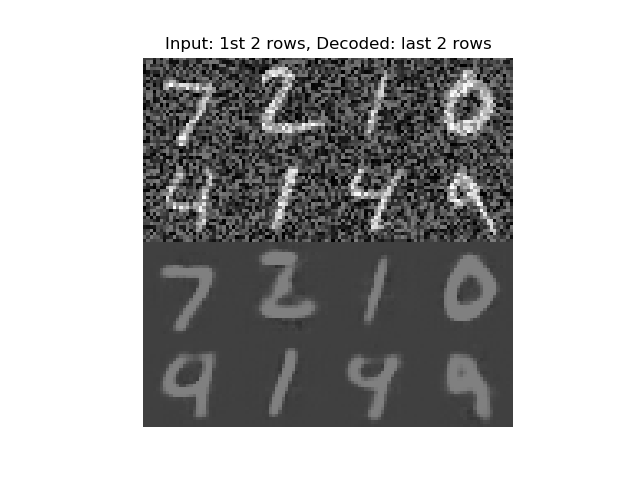
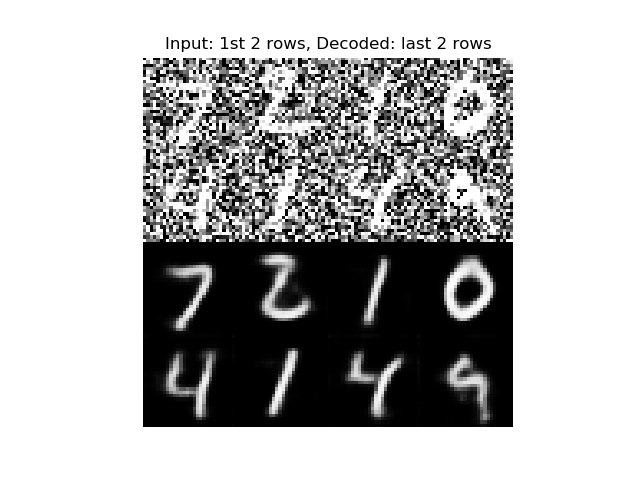
Add files via upload

diff --git a/mnist.py b/mnist.py
@@ -1,0 +1,94 @@
+from keras.layers import Dense, Input, Conv2D, Flatten, Reshape, Conv2DTranspose
+from keras.models import Model
+from keras.datasets import mnist
+from keras.utils import plot_model
+from keras import backend as K
+from plot_model import plotModel
+import numpy as np
+import matplotlib.pyplot as plt
+import os
+os.environ["PATH"] += os.pathsep + 'C:/Program Files (x86)/Graphviz2.38/bin/'
+
+
+(x_train, _), (x_test, y_test) = mnist.load_data()
+
+image_size = x_train.shape[1]
+x_train = np.reshape(x_train, [-1, image_size, image_size, 1])
+x_test = np.reshape(x_test, [-1, image_size, image_size, 1])
+x_train = x_train.astype('float32') / 255
+x_test = x_test.astype('float32') / 255
+
+# add noise
+x_train_normal = x_train
+x_test_normal = x_test
+noise = np.random.normal(loc=0.5, scale=0.5, size=x_train.shape)
+x_train = x_train + noise
+noise = np.random.normal(loc=0.5, scale=0.5, size=x_test.shape)
+x_test = x_test + noise
+x_train = np.clip(x_train, 0., 1.)
+x_test = np.clip(x_test, 0., 1.)
+
+
+input_shape = (image_size, image_size, 1)
+batch_size = 32
+kernel_size = 3
+latent_dim = 16
+layer_filters = [32, 64]
+
+# encoder
+inputs = Input(shape=input_shape, name="encoder_input")
+x = inputs
+for filters in layer_filters:
+    x = Conv2D(filters=filters, kernel_size=kernel_size, activation='relu', strides=2, padding='same')(x)
+
+# guess the shape of the output
+shape = K.int_shape(x)
+
+x = Flatten()(x)
+latent = Dense(latent_dim, name="latent_vector")(x)
+
+encoder = Model(inputs, latent, name="encoder")
+encoder.summary()
+# plot_model(encoder, to_file="encoder.png", show_shapes=True)
+
+
+# decoder
+latent_inputs = Input(shape=(latent_dim, ), name="decoder_input")
+x = Dense(shape[1] * shape[2] * shape[3])(latent_inputs)
+x = Reshape((shape[1], shape[2], shape[3]))(x)
+
+for filters in layer_filters[::-1]:
+    x = Conv2DTranspose(filters=filters, kernel_size=kernel_size, activation='relu', strides=2, padding='same')(x)
+
+outputs = Conv2DTranspose(filters=1, kernel_size=kernel_size,
+                          activation='sigmoid', padding='same',
+                          name="decoder_output")(x)
+
+decoder = Model(latent_inputs, outputs, name="decoder")
+decoder.summary()
+# plot_model(decoder, to_file='decoder.png', show_shapes=True)
+
+
+# autoencoder = encoder + decoder
+autoencoder = Model(inputs, decoder(encoder(inputs)), name="autoencoder")
+autoencoder.summary()
+plot_model(autoencoder, to_file="autoencoder.png", show_shapes=True)
+
+autoencoder.compile(loss='mse', optimizer='adam')
+autoencoder.fit(x_train, x_train_normal, validation_data=(x_test, x_test_normal),
+                epochs=1, batch_size=batch_size)
+
+x_decoded = autoencoder.predict(x_test)
+
+imgs = np.concatenate([x_test[:8], x_decoded[:8]])
+imgs = imgs.reshape((4, 4, image_size, image_size))
+imgs = np.vstack([np.hstack(i) for i in imgs])
+
+plt.figure()
+plt.axis('off')
+plt.title('Input: 1st 2 rows, Decoded: last 2 rows')
+plt.imshow(imgs, interpolation='none', cmap='gray')
+plt.savefig('noisy_input_and_decoded.png')
+plt.show()
+
+# plotModel((encoder, decoder), (x_test, y_test))
